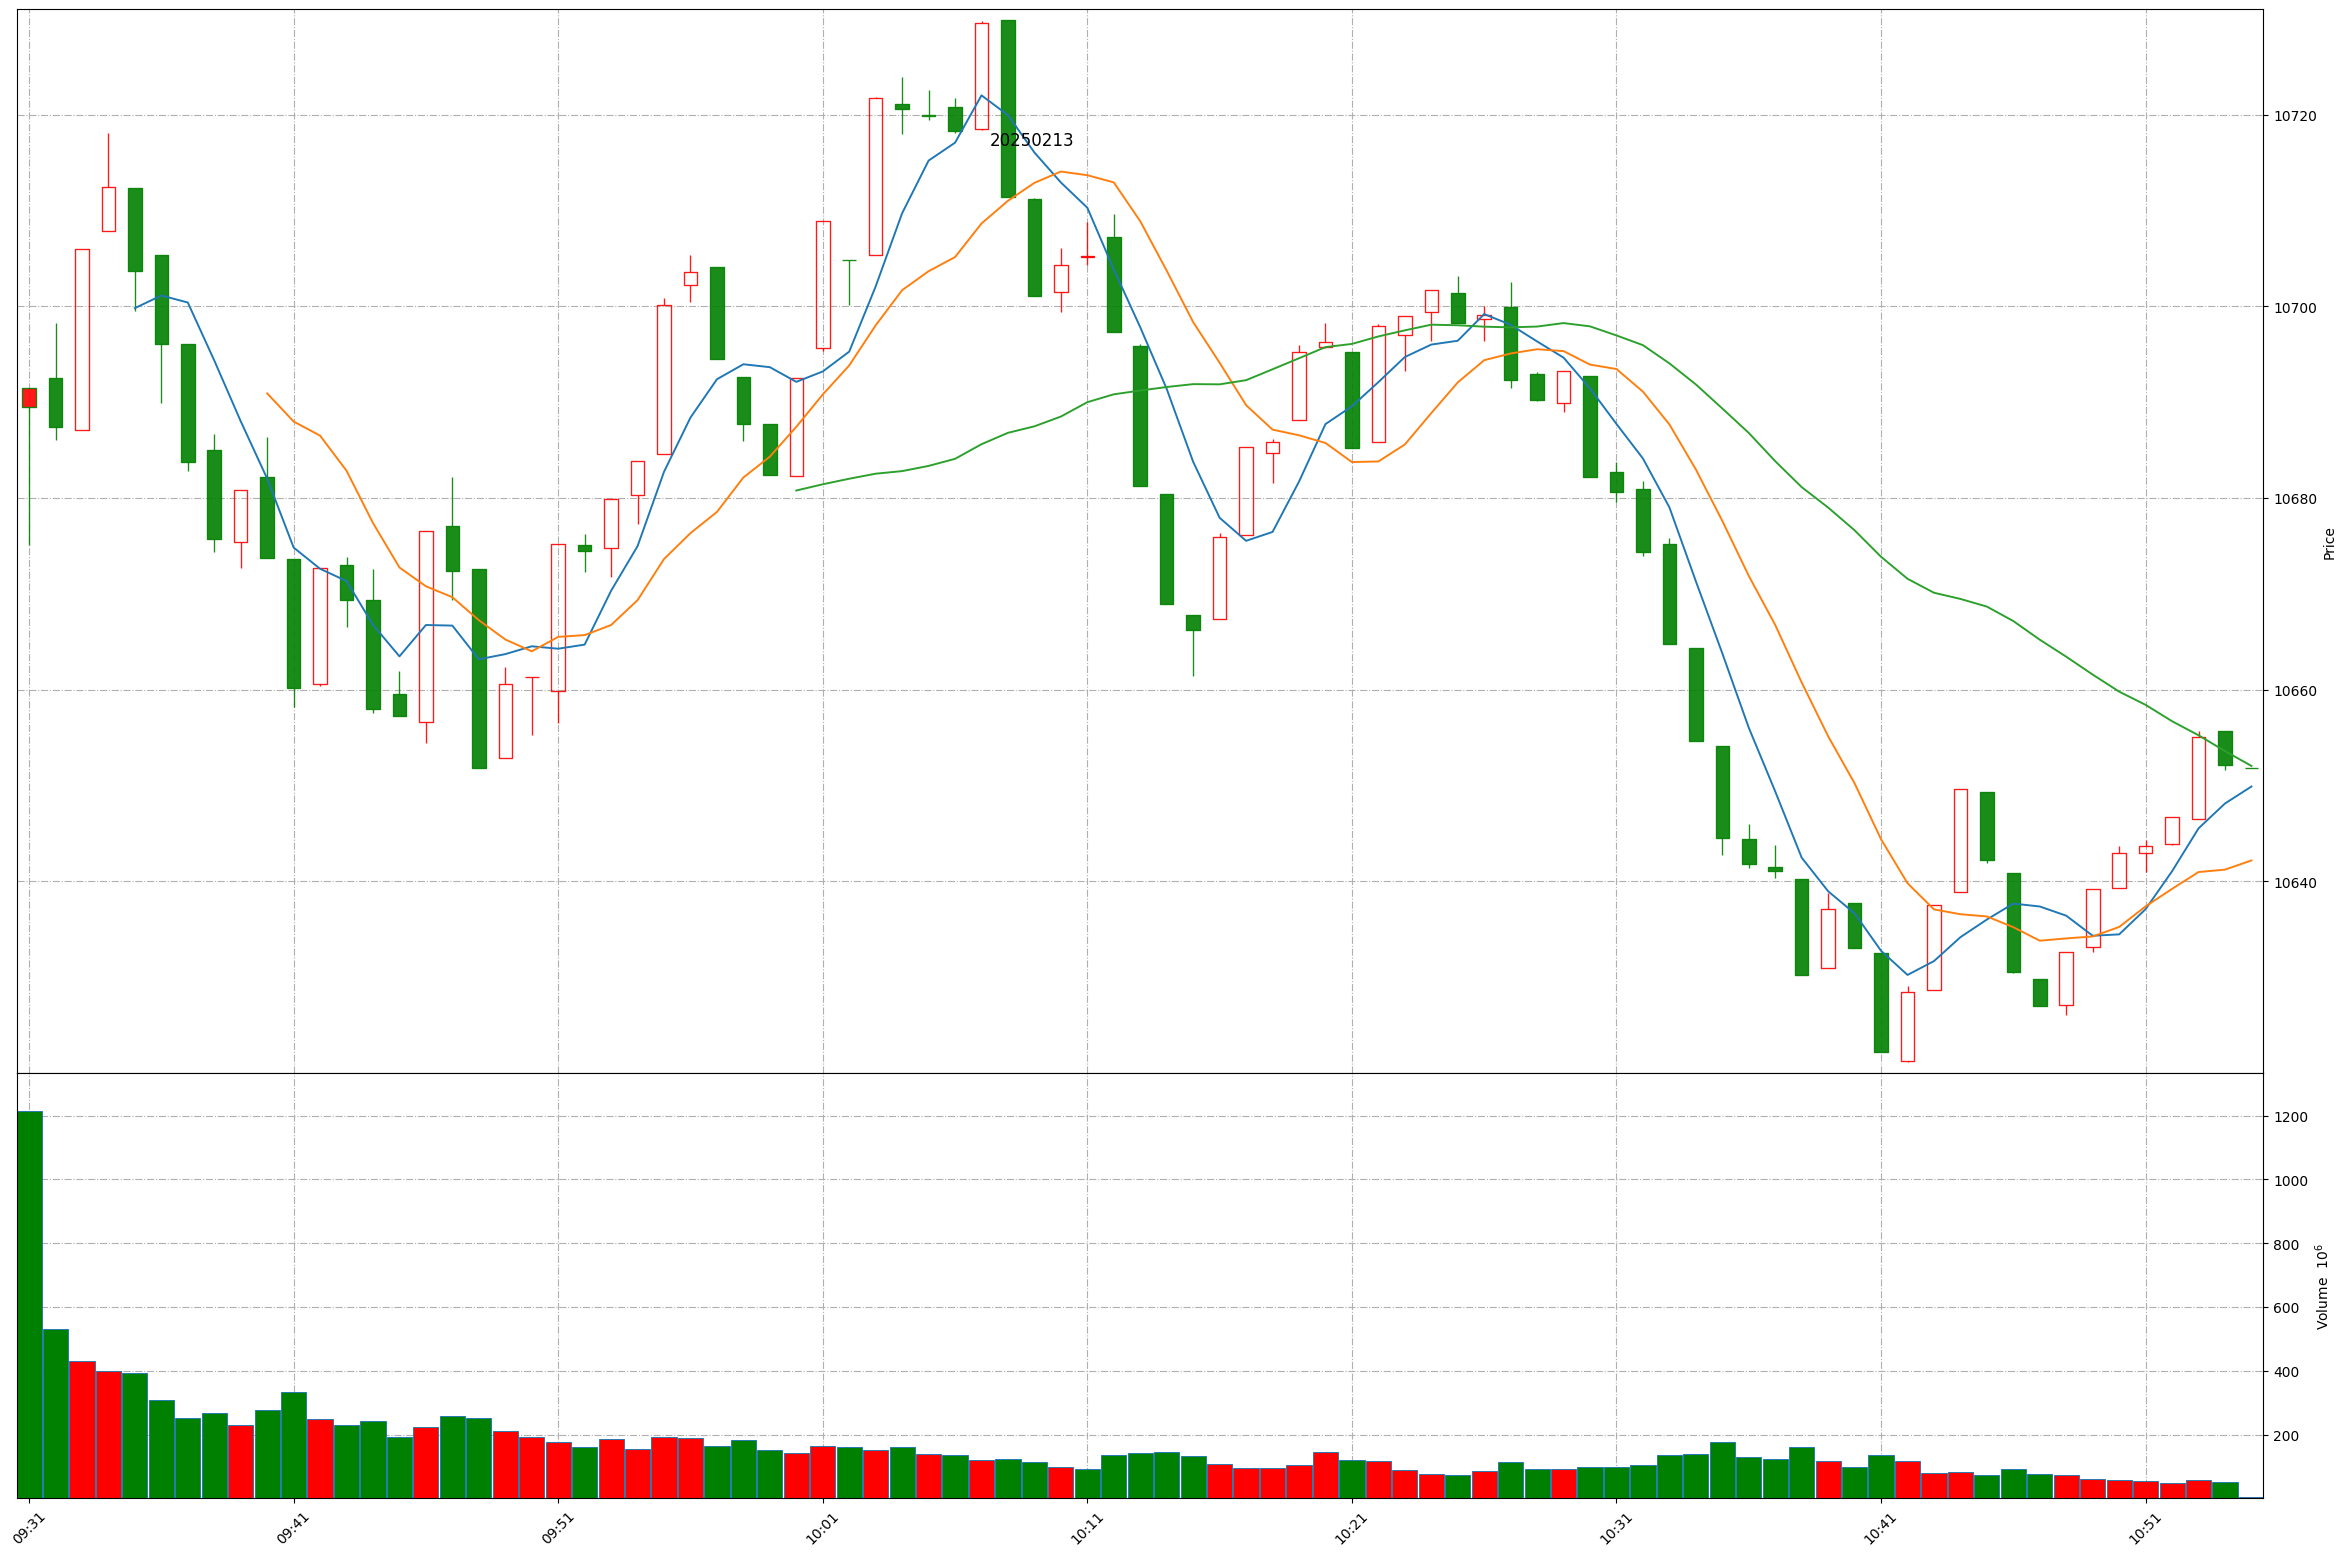
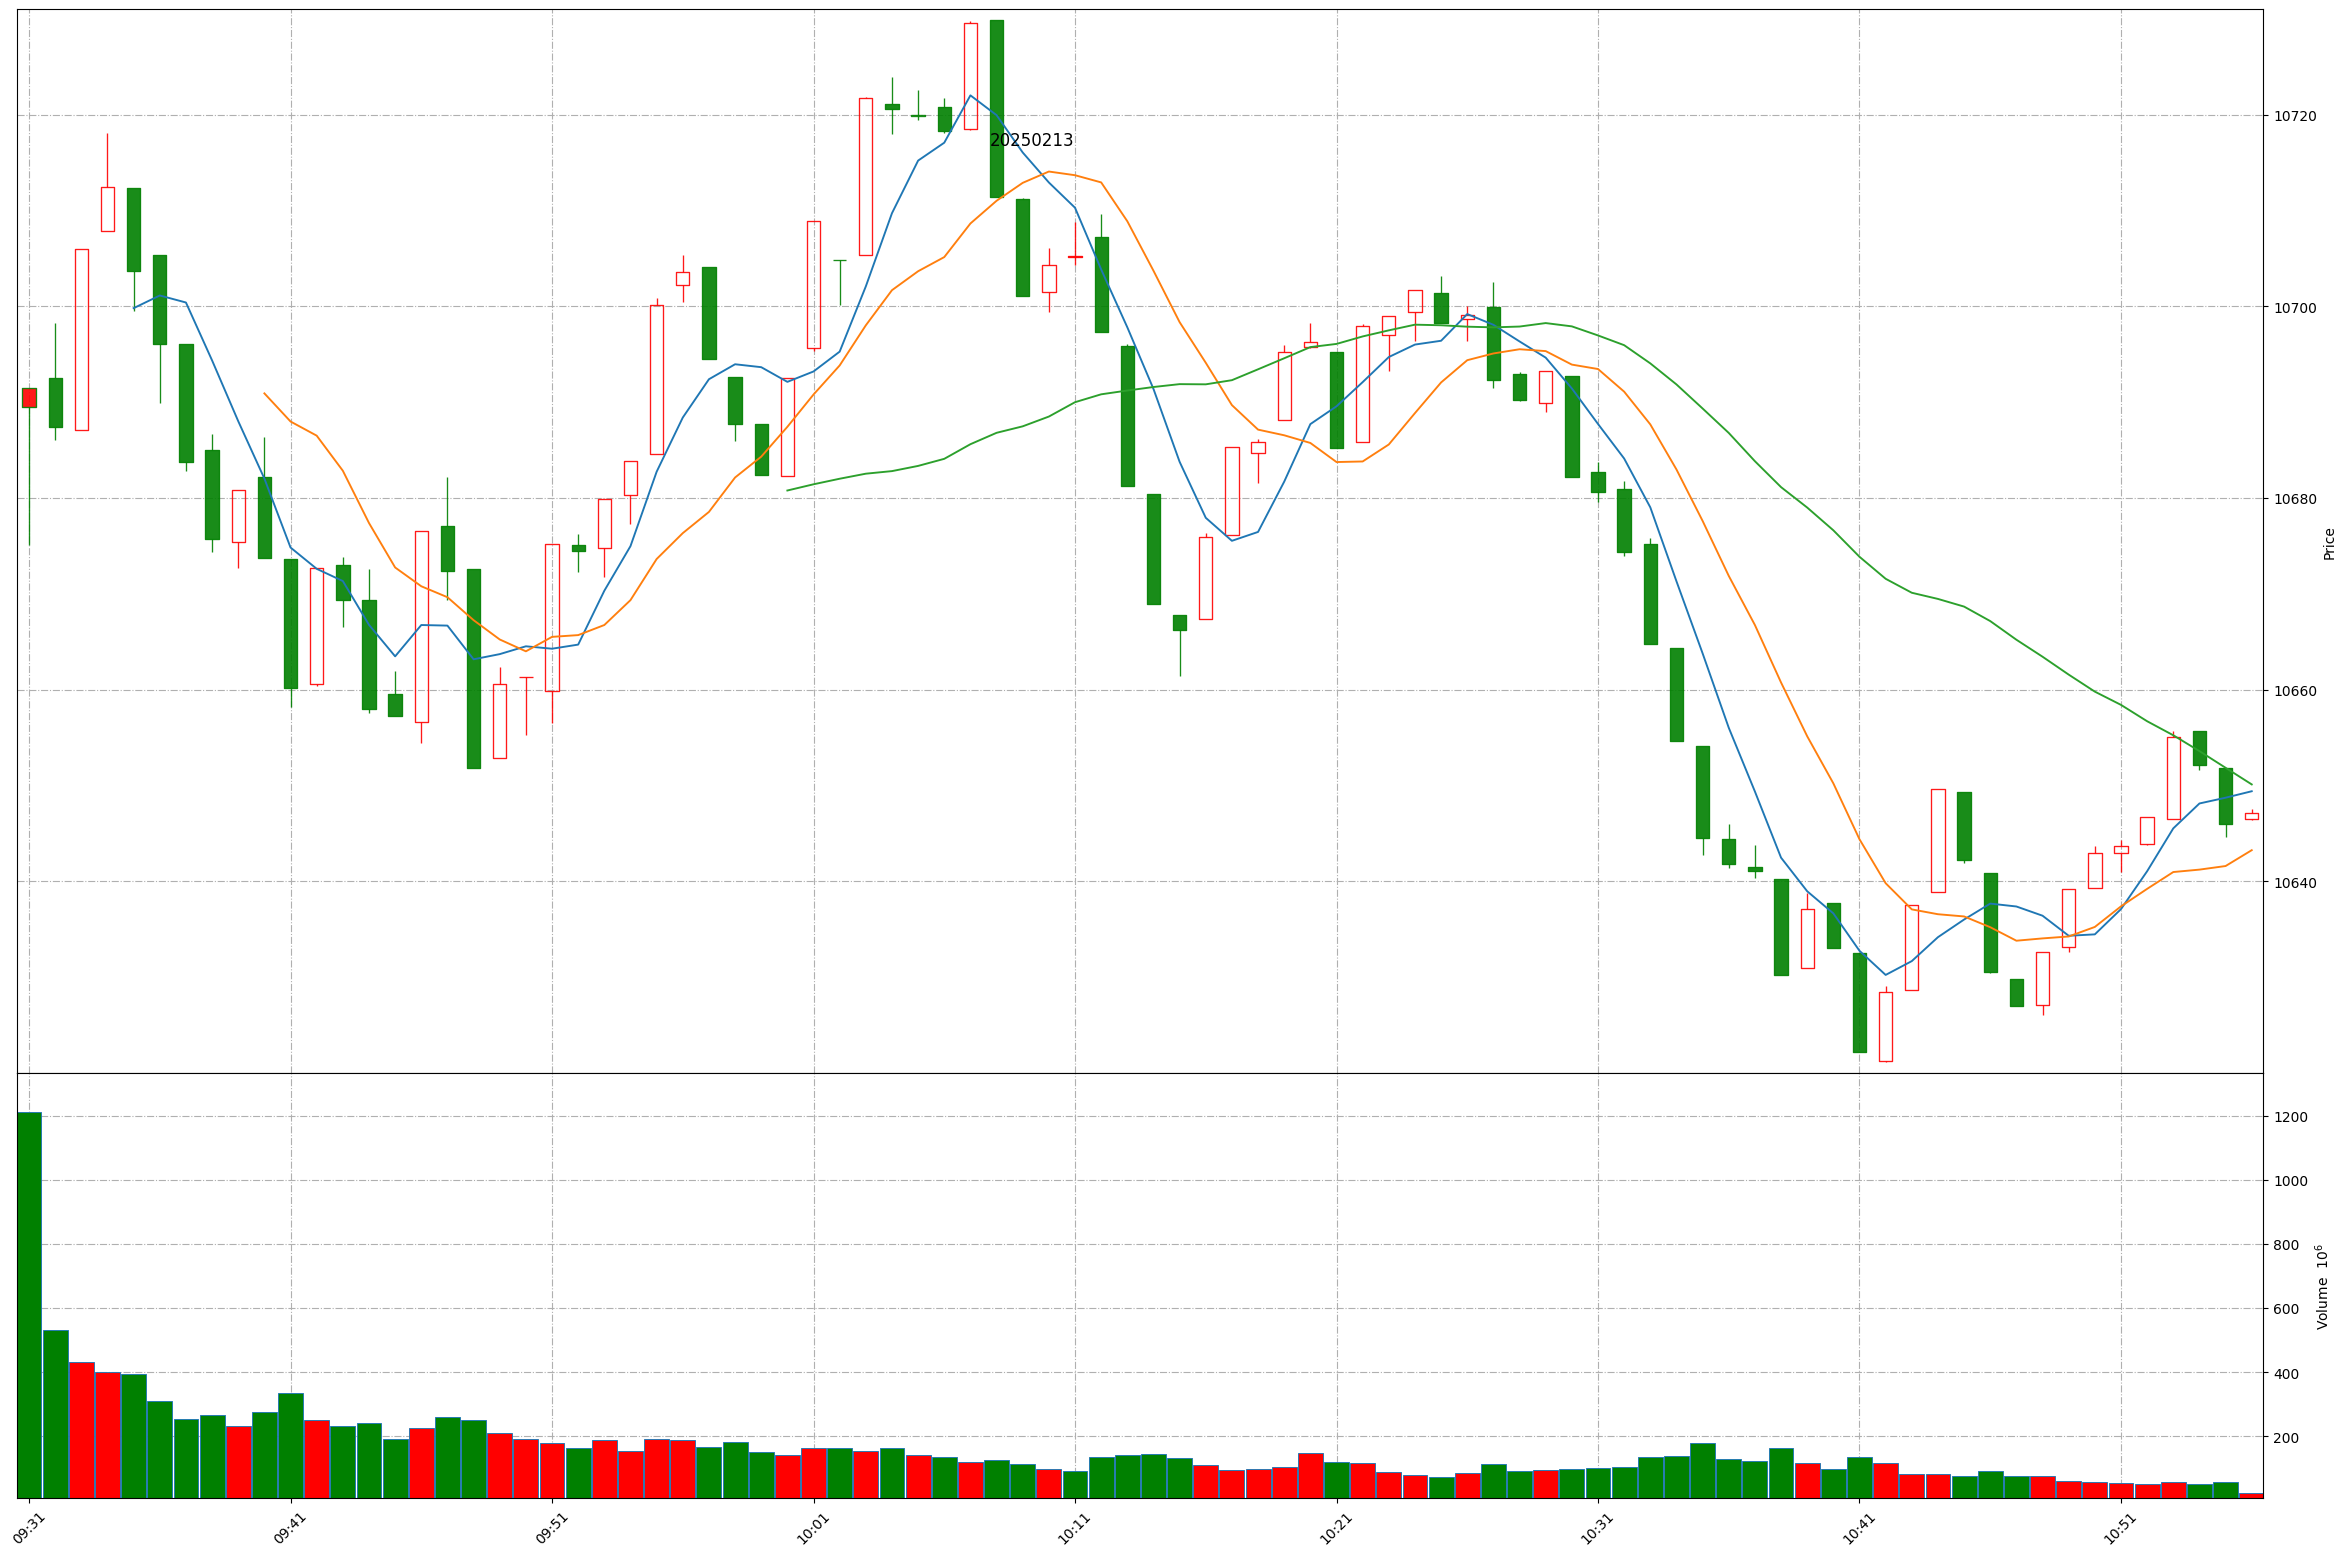
Github action update at 2025-02-13 10:55:41.

diff --git a/README.md b/README.md
@@ -1,11 +1,11 @@
 
 # Daily-A-share-market-quotes 每日 A 股指数（5min 更新）- 20250213
 
-### 上证指数 20250213 10:54
+### 上证指数 20250213 10:55
 ![](./fig/2025/2/20250213-sh000001.png)
 
-### 深证成指 20250213 10:54
+### 深证成指 20250213 10:55
 ![](./fig/2025/2/20250213-sz399001.png)
 
-### 北证50 20250213 10:54
+### 北证50 20250213 10:55
 ![](./fig/2025/2/20250213-bj899050.png)
